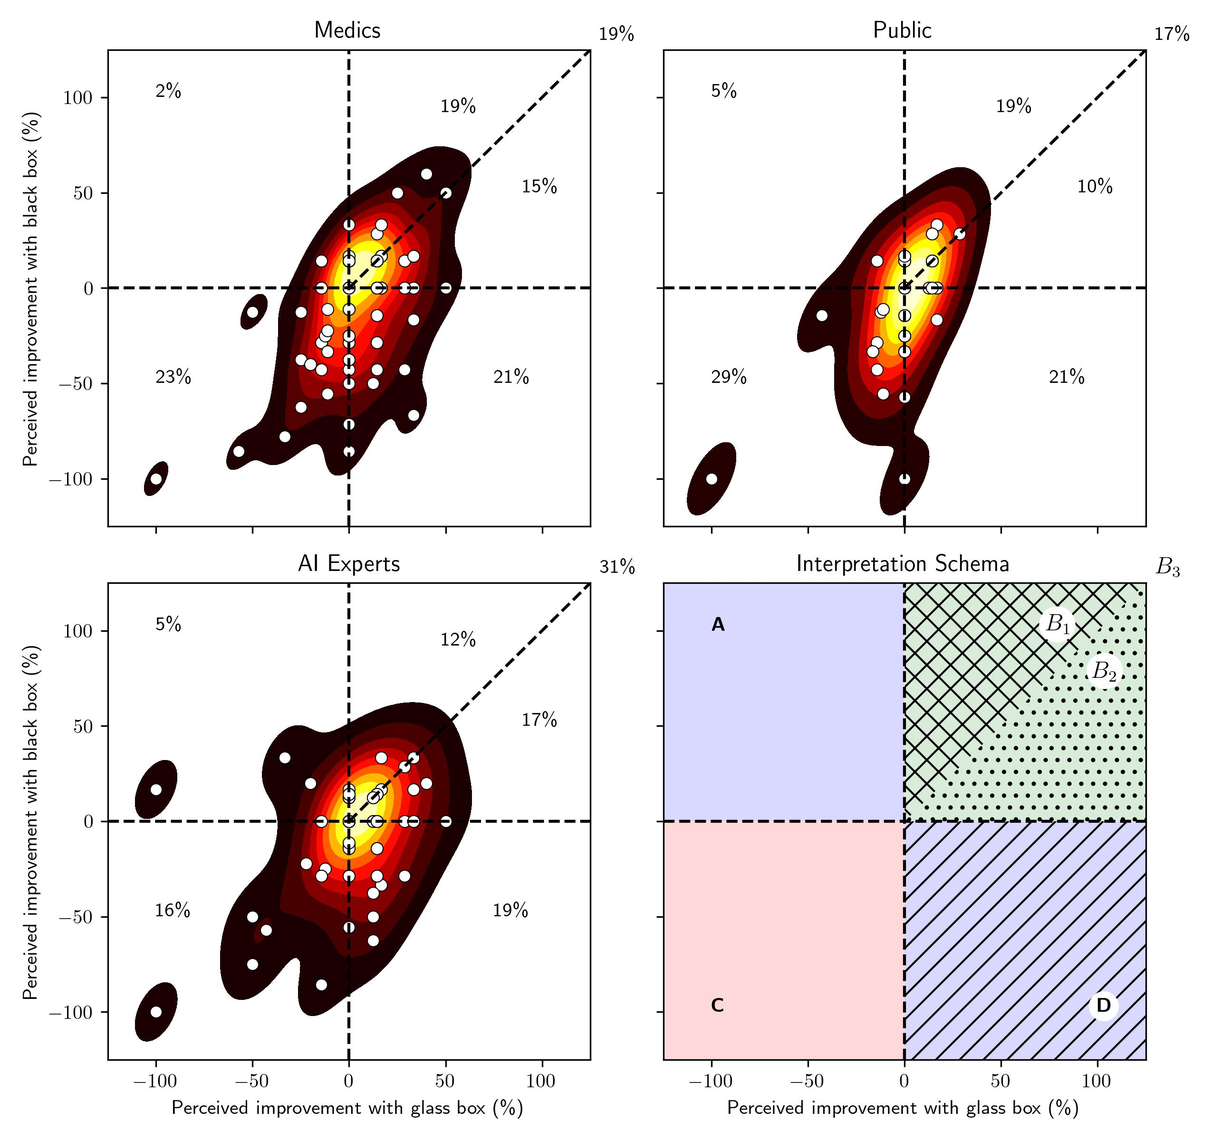
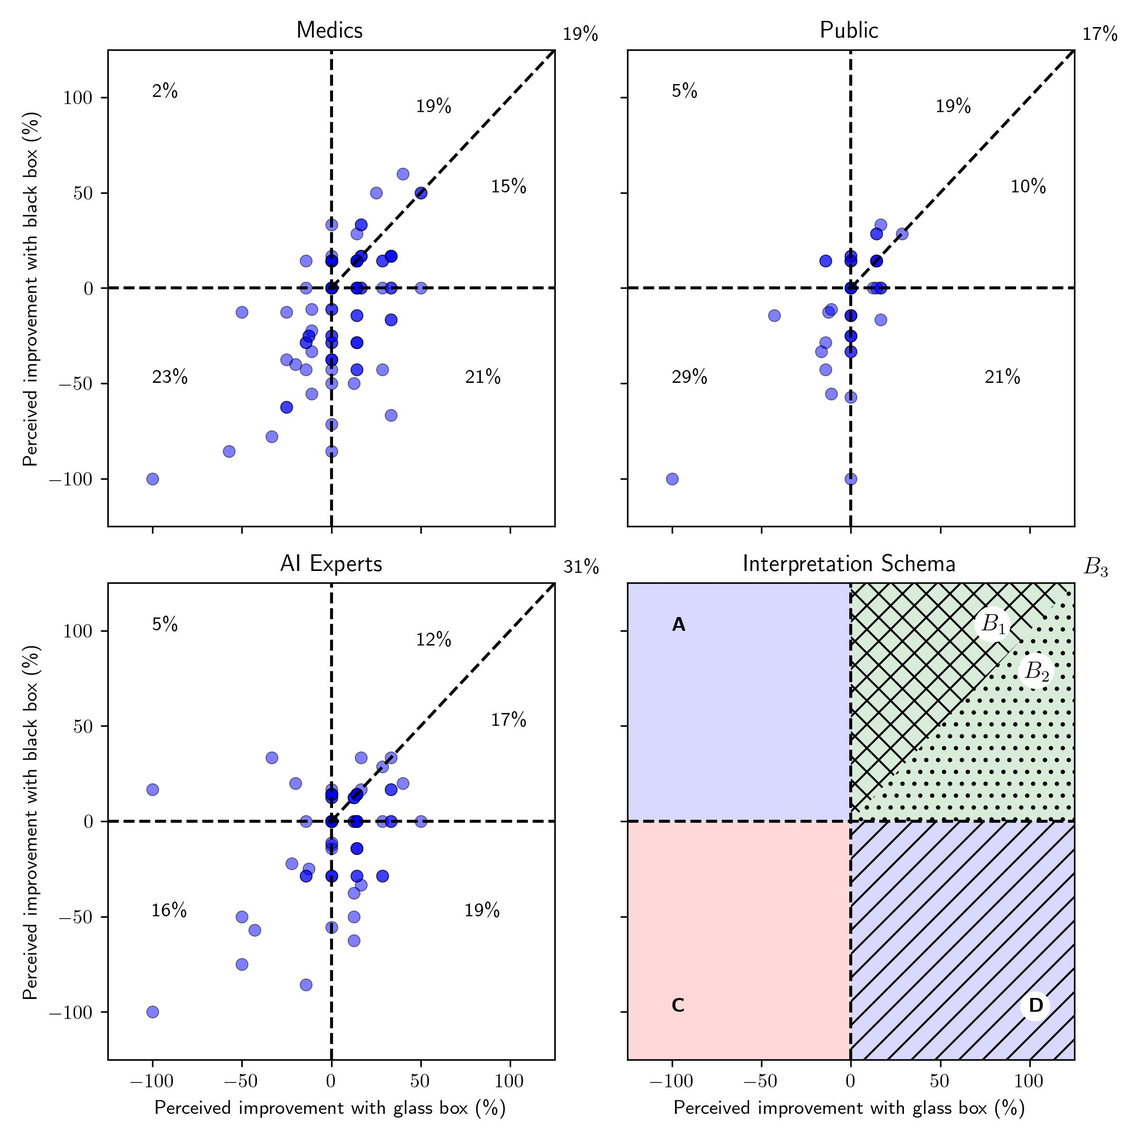
Worked on Discussion and Findings

diff --git a/elf.tex b/elf.tex
@@ -270,7 +270,9 @@ In this study we are focusing on the opinions of people who are affected by the 
     \item A black box system makes the diagnosis by itself.
 \end{enumerate}
 
-For each of these scenarios the participants were told how often the doctor and AI system make the correct diagnosis (the performance) and how much the doctor knew about why the AI system made its decision (the interpretability of the system). The participants were asked to express how much they would trust to be diagnosed by that setup by selecting a number from 1-10. We furthermore collected demographic information about the participants, namely if they are working in healthcare or not, how much experience and knowledge they have about AI as well as how frequently they are making high-stakes decisions (life-altering decisions). The scenarios were designed in such a way that the doctor and glass box had the same performance of 85 correct diagnoses out of 100 while the black box had a significantly better performance of 95 correct diagnoses out of 100. We analysed the responses with regards to which scenario was trusted the most respectively least and how this changed depending on the participants demographic. We found that overall scenario 4 (the black box on its own) was the least trusted scenario and scenario 2 (the doctor working together with the glass box) was the most trusted scenario. Scenario 1 (the doctor on their own) surprisingly was the second least trusted scenario, while it was at the same time second most trusted scenario. Scenario 3 (the doctor working with the black box) gained significantly more trust than scenario 4 (the black box on its own). The three demographic aspects did not change this other than for the participants that reported making frequent high stakes decisions, they gave the doctor by themselves the least trust. Furthermore, participants with medium and high AI expertise trust scenario 3 (the doctor with the black box) more. Participants who work in healthcare either trust the doctor by itself a lot or not at all, while participants who don’t work in healthcare trust the black box by itself significantly less.
+For each of these scenarios the participants were told how often the doctor and AI system make the correct diagnosis (the performance) and how much the doctor knew about why the AI system made its decision (the interpretability of the system). The participants were asked to express how much they would trust to be diagnosed by that setup by selecting a number from 1-10. We furthermore collected demographic information about the participants, namely if they are working in healthcare or not, how much experience and knowledge they have about AI as well as how frequently they are making high-stakes decisions (life-altering decisions). The scenarios were designed in such a way that of the patients who have Covid the doctor and glass box both correctly diagnose 85 out of 100 while the black box had a significantly better performance of 95 correct diagnoses out of 100. This is an equivalent to a "true positive rate" in information science, or "sensitivity" in medicine, which are accepted measures of performance in both fields.
+
+We analysed the responses with regards to which scenario was trusted the most respectively least and how this changed depending on the participants demographic. We found that overall scenario 4 (the black box on its own) was the least trusted scenario and scenario 2 (the doctor working together with the glass box) was the most trusted scenario. Scenario 1 (the doctor on their own) surprisingly was the second least trusted scenario, while it was at the same time second most trusted scenario. Scenario 3 (the doctor working with the black box) gained significantly more trust than scenario 4 (the black box on its own). The three demographic aspects did not change this other than for the participants that reported making frequent high stakes decisions, they gave the doctor by themselves the least trust. Furthermore, participants with medium and high AI expertise trust scenario 3 (the doctor with the black box) more. Participants who work in healthcare either trust the doctor by itself a lot or not at all, while participants who don’t work in healthcare trust the black box by itself significantly less.
 
 We followed the survey up with a focus group of 6 people with demographics <?> to discuss and reflect further on their thoughts about AI and the need for interpretability and explanations as well as exploring if black box models will ever be accepted. We found that the dislike of the black box has less to do with the lack of interpretablity, but more to do with the lack of empathy that a machine can give compared to a human when diagnosing someone with a potential critical illness. However, the focus group rated the black box higher than the survey participant did under the conditions that it had high performance and that the patient had full disclosure of a black box being used or that it was used in a low-stakes application area.
 
@@ -327,7 +329,7 @@ Most of them give an overview of techniques available, try to group them and wit
 We believe GA$^2$Ms represent a significant step forward in the tradeoff between model accuracy and intelligibility that should make it easier to deploy high-accuracy learned models in applications such
 as healthcare where model verification and debuggability are as important as accuracy.\cite{Caruana2015}
 
-There has been a previous wave of explainability in control systems as well as AI in the late 80ies: Explaining Control Strategies in Problem Solving\cite{Chandrasekaran1989}
+There has been a previous wave of explainability in control systems as well as AI in the late 1980s: Explaining Control Strategies in Problem Solving\cite{Chandrasekaran1989}
 
 \subsection{Explainability}\label{subsec:explainability}
 Explanations can be seen as adding a form of post-hoc interpretability to an AI system.
@@ -481,19 +483,19 @@ Internal consistency was good for three factors (1, 2, and 3), and acceptable fo
 
 %The aim of this study is to investigate how the level of transparency that is provided by an AI tool influences the level of trust placed in it when used in high-stakes decision-making. Transparency of an AI tool refers to how well a human can understand why an AI tool has come to the decision that it has made. A high-stakes decision is where someone may be significantly negatively impacted by the result of a decision, for example self-driving cars, medical and legal decisions
 
-The aim of this study is to investigate how the level of transparency that is provided by an AI tool influences the level of trust placed in it when used in high-stakes decision-making. In this context, transparency refers to a characteristic of the AI tool being used, which implies how easily the model outputs can be justified by a user when considering the model inputs.
-
-the ability of a model to be interpeof an AI tool refers to how well a human can understand why an AI tool has come to the decision that it has made. A high-stakes decision is where someone may be significantly negatively impacted by the result of a decision, for example self-driving cars, medical and legal decisions.
+The aim of this study is to investigate how the level of transparency that is provided by an AI tool influences a users' level of trust when applied in the context of high-stakes decision-making. In this context, transparency refers to a characteristic of the AI tool being used, which implies how easily the model outputs can be justified by a user when considering the model inputs. A high-stakes decision is where someone may be significantly negatively impacted by the result of a decision, for example self-driving cars, medical and legal decisions.
 
 % JE
+
 
 % Brief overview/ intro to methods (survey & focus group) before going into more detail
 % Brief discussion of why the methods were chosen
 
 \begin{itemize}
+\item To understand the relationship between trust, transparency and experience  - insert figure here
 \item To evaluate.../ address the aims of this work... We conducted a two-part investigation.
 \item First, we collected qualitative survey data using a scenario-based questionnaire. Different AI-assisted decision making processes were described and presented, and participants rated their attitude towards them.
-\item (Brief reason why we chose to survey)
+\item (Brief reason why we chose to survey) -  to allow us to create tabular datasets of trust vs transparency per demographic
 \end{itemize}
 \begin{itemize}
 \item The survey was designed to identify whether there were trends in the attitudes of different groups of participants towards the presented AI systems. 
@@ -592,7 +594,7 @@ By gathering data from a group of participants on their level of trust in the de
 Measuring trust for a population on a unified scale is a well-documented challenge [Sohns. A et al.] [Glaeser. E et al]. Evaluating an individual's level of trust is a multi-dimensional problem which depends on past experience, knowledge and interpretation of terminology regarding levels of trust. To correctly capture variations in trust for different levels of model transparency, we must define appropriate constraints for the data-capturing process.
 
 % Covid Diagnosis
- Firstly, we assume that an individual's level of trust in an AI tool will vary considerably based on the stake which the user has in the decision. For example, the general public might be passive when AI tools are utilised to suggest the nearby restaurants during the process of ordering food, but could feel some level of concern if a judicial system announced that it would apply an AI tool to determine all criminal sentencing procedures for future convictions. To ensure that any surveyed individual has a high stake in the decision-making process, we establish constraint \#1:
+ Firstly, we assume that an individual's level of trust in an AI tool will vary considerably based on the stake which the user has in the decision. For example, the general public might be passive when AI tools are utilised to suggest nearby restaurants during the process of ordering food, but could feel some level of concern if a judicial organisation announced that it would apply an AI tool to determine all criminal sentencing procedures for future convictions. To ensure that any surveyed individual has a high stake in the decision-making process, we establish constraint \#1:
  \begin{center}
      \textbf{Constraint 1}; Participants are asked to consider a situation where an AI tool is used to aid the decision of whether or not they have contracted COVID-19.
  \end{center}
@@ -653,7 +655,7 @@ When surveying a population, several key ethical considerations must be addresse
 \end{itemize}
  
 
-\subsection{Data Analysis}
+\subsection{Data Analysis Survey}
 
 % /JE
 
@@ -662,7 +664,10 @@ Highlight the use of covid diagnosis makes people apply the risk to themselves. 
 Split into Study one and Study two.
 How did we pick the 5 people from the focus group
 
-\section{Survey Results}
+\subsubsection{Scenario Ranking}
+
+Each participants number of trust for each of the four scenarios was ranked from 1-4 with 1 being the lowest and 4 being the highest ranking. This was done overall as well as split into the different demographics: Low, medium and high AI experience; low, medium and high high-stakes decision making as well as working in health care or not. The ranking was calculated using panda's rank function. Ties in ranking were resolved using panda's 'average' method\cite{mckinney-proc-scipy-2010}. In total there were 9 participants who have given each scenario the same number of trust, 49 who have given each scenario a different number of trust, 105 who have given two scenarios the same trust and 115 who have given three scenario the same trust. For AI experience and frequency of high-stakes decision making the rating from 1-10 was binned into three bins: Low, Medium, High using panda's cut function\cite{mckinney-proc-scipy-2010}. The resulting bins are both were low $(0.991, 4.0] <$ medium $(4.0, 7.0] <$ high (7.0, 10.0]]. To be able to compare the charts across demographics regardless of how many people are in which demographic the number of answers were normalised: number of answers/(total number of answers)*100.
+
 
 %\subsection{Data}
 
@@ -676,7 +681,7 @@ The survey was closed after XXX days, with XXX participants. We use the two key 
     \item Public: Neither a medical professional nor an AI expert
 \end{itemize}
 
-\subsection{Additional Features}
+\subsubsection{Additional Features}
 
 We use the results of the first scenario, the trust in the doctor with no AI component $T_D$, as a baseline to assess the impact of AI-cooperation on diagnosis trust levels. We denote the trust level reported in these cooperative scenarios based on the nature of their model. Scenario two, with the interpretable or "glass box'' model is $T_{GB}$, and scenario three with the "black box'' model $T_{BB}$.
 
@@ -690,8 +695,8 @@ These features allow analysis of whether participants view the cooperative use o
 
 \begin{figure}[h!]
     \centering
-    \includegraphics[width=\textwidth]{graphics/Doctor_improvements_cooperation_scatter.jpg}
-    \caption{\centering Perceived improvements in trust in scenarios 3 and 4. Gaussian Kernel Density Estimates of the samples are included for visualisation clarity. Percentages are calculated using $\leq 0$ and $>0$ basis.\hspace{\textwidth} Interpretation schema: \textbf{A}: Black box improves diagnosis, glass box makes diagnosis worse \hspace{\textwidth} \textbf{B}: Both glass box and black box improve diagnosis. \textbf{$B_1$} black box is preferred, \textbf{$B_2$} glass box is preferred, $B_3$ neither is preferred. \textbf{C}: Neither glass box nor black box improve diagnosis \textbf{D}: Glass box improves diagnosis, black box makes diagnosis worse}
+    \includegraphics[width=0.75\textwidth]{graphics/Doctor_improvements_cooperation_scatter.jpg}
+    \caption{\centering Perceived improvements in trust in scenarios 3 and 4. Percentages are calculated using $\leq 0$ and $>0$ basis.\hspace{\textwidth} Interpretation schema: \textbf{A}: Black box improves diagnosis, glass box makes diagnosis worse \hspace{\textwidth} \textbf{B}: Both glass box and black box improve diagnosis. \textbf{$B_1$} black box is preferred, \textbf{$B_2$} glass box is preferred, $B_3$ neither is preferred. \textbf{C}: Neither glass box nor black box improve diagnosis \textbf{D}: Glass box improves diagnosis, black box makes diagnosis worse}
     \label{fig:improvement}
 \end{figure}
 
@@ -699,9 +704,23 @@ Through Figure \ref{fig:improvement} we derive how different cohorts view the us
 
 Only a minority of each cohort view neither AI-cooperative scenario as beneficial. In all cohorts the glass box model is preferred over the black box model, but only by a small margin, with ratios $f_{BB}:f_{GB}$ of 1:1.17, 1:1.125 and 1:1.40 for the public, medical professionals and AI experts respectively. 
 
+\begin{table}[h]
+\begin{tabular}{c||c|c|c}
+     & Public & Medics & AI Experts \\
+     \hline \hline
+    GB and BB inhibit (C)            & 29\% & 23\% & 16\%\\ \hline
+    GB inhibits, BB improves (A)     & 5\%  & 2\%  & 5\% \\
+    GB improves, BB inhibits (D)     & 21\% & 21\% & 19\%\\  \hline
+    GB and BB improve (B)      & 46\% & 53\% & 60\%\\ \hline
+    GB and BB improve (equal)    & 17\% & 19\% & 31\%\\
+    GB and BB improve (GB better)& 10\% & 15\% & 17\%\\
+    GB and BB improve (BB better)& 19\% & 19\% & 12\%\\ 
+\end{tabular}
+\caption{\label{tab:demographic_trust_change}Perceived changes in trust of a diagnosis from an AI/doctor cooperation, dis-aggregated into previously described demographics. Note: Relevant percentages may not sum to 100\% due to rounding errors.}
+\end{table}
 %\subsection{Correlation Analysis}
 
-\subsection{Clustering}
+\subsubsection{Clustering}
 
 Having disaggregated into profiling features, then analysed the trust levels of these cohorts, we can instead do the opposite. By starting with trust levels and finding distinct groups of how they are distributed, we can construct cohorts based on trust levels, then use profiling features to find the characteristics of these groups.
 
@@ -742,32 +761,16 @@ Cluster 2, which leans the most towards following efficacy statistics, has the h
 
 Clusters 0 and 3 are less easily identified, but might represent different subsets of the general population. Cluster 0 has a higher self-reported stake level, but a lower than average medic proportion, so might represent high-stakes decision makers from outside the medical field. Cluster 3 is very close to the average in all three of our profiling features, and is the largest, so could be said to represent the public, or the equivalent for our participant pool.
 
-\subsection{Notes on results for discussions:}
-
-\subsubsection{Cooperation:}
-\begin{itemize}
-    \item AI experts like the AI cooperation scenarios most - 60\% have higher trust than in doctor
-    \item If you like the black box, you also like the glass box, and very few in any population only like the black box
-    \item AI experts have the smallest proportion liking the glass box and disliking the black box
-    \item Disliking both glass box and black box follows AI technical level: Public $\rightarrow$ Medics $\rightarrow$ AI
-\end{itemize}
-
-\subsubsection{Clustering:}
-\begin{itemize}
-    \item Clustering isolates medics and AI researchers
-    \item AI researchers follow what we'd expect: they trust AI the most, but weight towards transparency over efficacy, and don't like the black-box working solo
-    \item Medics weight heavily towards efficacy, but still rate a doctor having the final decision higher than the black box by itself
-    \item General population is split into low/high stakes
-    \item High-stakes genpop are less scared of AI, and seem to weight efficacy and transparency equally important, but still want a human final decision
-    \item Low-stakes genpop (the actual public?) are scared of AI, especially when its not transparent. They don't like the Terminator doctor, sorry Arnold.
-\end{itemize}
+\subsubsection{Notes on results for discussions:}
 
 
 
 
 
 
-\subsection{Brainstorm}
+
+
+\subsubsection{Brainstorm}
 \begin{itemize}
     \item Correlation analysis
     \item Clustering analysis
@@ -776,7 +779,7 @@ Clusters 0 and 3 are less easily identified, but might represent different subse
 
 
 
-\subsection{Bit of maths}
+\subsubsection{Bit of maths}
 
 In order for the AI to have any impact on the doctor, the doctor has to actually take the AI's diagnosis into account. For an AI diagnosis $A^x, x\in \{+,- \}$ and an original doctor diagnosis $D^x, x\in \{+,- \}$. As shown visually in Fig. \ref{fig:coop_diagram}, we can model a bias factor $f^x_{\textrm{Agree/Disagree}}$. The doctor can be assumed to carry a unique bias towards agreeing or disagreeing with the AI, dependent on the AI's diagnosis, which here we've modelled as a factor change to the doctor's original efficacy.
 
@@ -1008,13 +1011,103 @@ A single focus group comprising five participants was held in April 2022.
 
 
 \section{Findings}
-Describe our findings from user research
-Evaluation of our findings
+%Describe our findings from user research
+%Evaluation of our findings
+\subsection{Survey}
+\subsubsection{Scenario Ranking}
+
+From the \ref{fig:overall-ranking} we can see that the black box (BB) was most frequently ranked the lowest whereas the glass box together with the doctor (DR+GB) was most frequently ranked highest.\\
+
+While the actual percentage of ranking has to be taken with a pinch of salt given that only 49 participants have given each scenario a different trust level and with it a different rank. The average method used to resolve such ties impacts the number of participants e.g ranking the BB lowest but it does not impact that no matter what the tie resolution strategy is the BB gets the lowest rank.
+
+It is interesting to look at each of the rank an the oder in which the different scenarios are appearing:
+
+For the lowest rank - a ranking of 1 - the BB was by far the lowest ranking scenario followed by the Dr on their own, then the black box with the doctor. The glass box with the doctor was the least frequent ranked the lowest.
+
+For the highest rank - ranking of 4 - the glass box with the dr was ranked most often the highest, the Dr on their own second most often, the black box with the Dr third most often and the black box on it's own was ranked least often the highest.
+
+\begin{figure}[h]
+    \centering{\includegraphics[width=0.8\textwidth]{graphics/ranking/rankingOverallNormalisedAvarageTies.png}}
+    \caption{Overall ranking for each of the four scenarios. Rank 1 is the lowest, rank 4 the highest ranking.}
+    \label{fig:overall-ranking}
+\end{figure}
+
+Looking at how the ranking changes based on if the participant works in healthcare or not we can see that the order for the highest rank (4) and lowest rank (1) stay the same as for the overall chart. However we can also see that people who work in healthcare more frequently rate the Dr on their own as the second lowest scenario that gets a rank 1.
+
+\begin{figure}[h]
+    \centering{\includegraphics[width=0.8\textwidth]{graphics/ranking/ranking-healthcare-vs-notNormalised-average-ties.png}}
+    \caption{Ranking based on participants working in healthcare or not for each of the four scenarios. Rank 1 is the lowest, rank 4 the highest ranking.}
+    \label{fig:overall-ranking}
+\end{figure}
+
+If we look at how the ranking changes with regards to how much AI experience the participants have we again see no change compared to the overall ranking for the highest and lowest rank. We can however see that black box together with the doctor is more frequently ranked in rank 3 for participants with medium and high AI experience and that the black box on it's own is more frequently getting a rank 3 then the Dr on it's own does.
+
+\begin{figure}[h]
+    \centering{\includegraphics[width=0.8\textwidth]{graphics/ranking/ranking-ai-experience-normalised-average-ties.png}}
+    \caption{Ranking based on participant's AI experience of low, medium or high experience for each of the four scenarios. Rank 1 is the lowest, rank 4 the highest ranking.}
+    \label{fig:overall-ranking}
+\end{figure}
+
+Finally if we look at how the frequency how often a participants makes high-stakes decision changes which scenario gets ranked lowest or highest we can see a change in the high high-stakes decision maker compared to the overall ranking. High high-stakes decision maker rank the Dr on their own as the lowest trust scenario and the black box on its own as the second lowest lowest trust scenario.
+
+\begin{figure}[h]
+    \centering{\includegraphics[width=0.8\textwidth]{graphics/ranking/ranking-high-stakes-decisions-normalised-average-ties.png}}
+    \caption{Ranking based on participant's frequency of high-stakes decision making of low, medium or high frequency for each of the four scenarios. Rank 1 is the lowest, rank 4 the highest ranking.}
+    \label{fig:overall-ranking}
+\end{figure}
+
+\subsection{Focus Group}
+
 
 \section{Discussion}
 Contribution we've made
 
+%AD - from changes in trust and clustering
 
+\subsubsection{Cooperation (AD), changes:}
+\begin{itemize}
+    \item AI experts like the AI cooperation scenarios most - 60\% have higher trust than in doctor
+    \item If you like the black box, you also like the glass box, and very few in any population only like the black box
+    \item AI experts have the smallest proportion liking the glass box and disliking the black box
+    \item Disliking both glass box and black box follows AI technical level (descending): Public $\rightarrow$ Medics $\rightarrow$ AI
+\end{itemize}
+
+\subsubsection{Clustering (AD):}
+\begin{itemize}
+    \item Clustering isolates medics and AI researchers
+    \item AI researchers follow what we'd expect: they trust AI the most, but weight towards transparency over efficacy, and don't like the black-box working solo
+    \item Medics weight heavily towards efficacy, but still rate a doctor having the final decision higher than the black box by itself
+    \item General population is split into low/high stakes
+    \item High-stakes genpop are less scared of AI, and seem to weight efficacy and transparency equally important, but still want a human final decision
+    \item Low-stakes genpop (the actual public?) are scared of AI, especially when its not transparent. They don't like the Terminator doctor, sorry Arnold.
+\end{itemize}
+
+%ID - conclusions from Ranking and Literature
+
+\subsubsection{Ranking (ID)}
+\begin{itemize}
+    \item BB least trusted across demographics
+    \item GB+DR most trusted across demographics
+    \item the second least trusted scenario was Dr on their own
+    \item DR on their own second most trusted scenario
+    \item higher stakes decision makers trust the Dr less
+    \item medium+high AI expertise trust BB more than the low expertise
+    \item from Focus group, dislike of BB has more to do with lack of empathy in the communication not if it is interpretable, transparent or not
+    \item from FG high performance is important for BB
+\end{itemize}
+
+%MC - from focus group
+\subsubsection{focus group (MC):}
+\begin{itemize}
+    \item preference to doctor or human relaying information
+    \item full disclosure of any AI used in a system
+    \item performance of AI important
+    \item transparancy of AI important for high stakes
+    \item low stakes transparancy less important
+    \item confusing over who is accountable for AI decsions
+    \item second opinion from AI seen as useful over doctor on own
+    \item trust issues around data privacy
+\end{itemize}
 \section{Conclusion}
 
 
